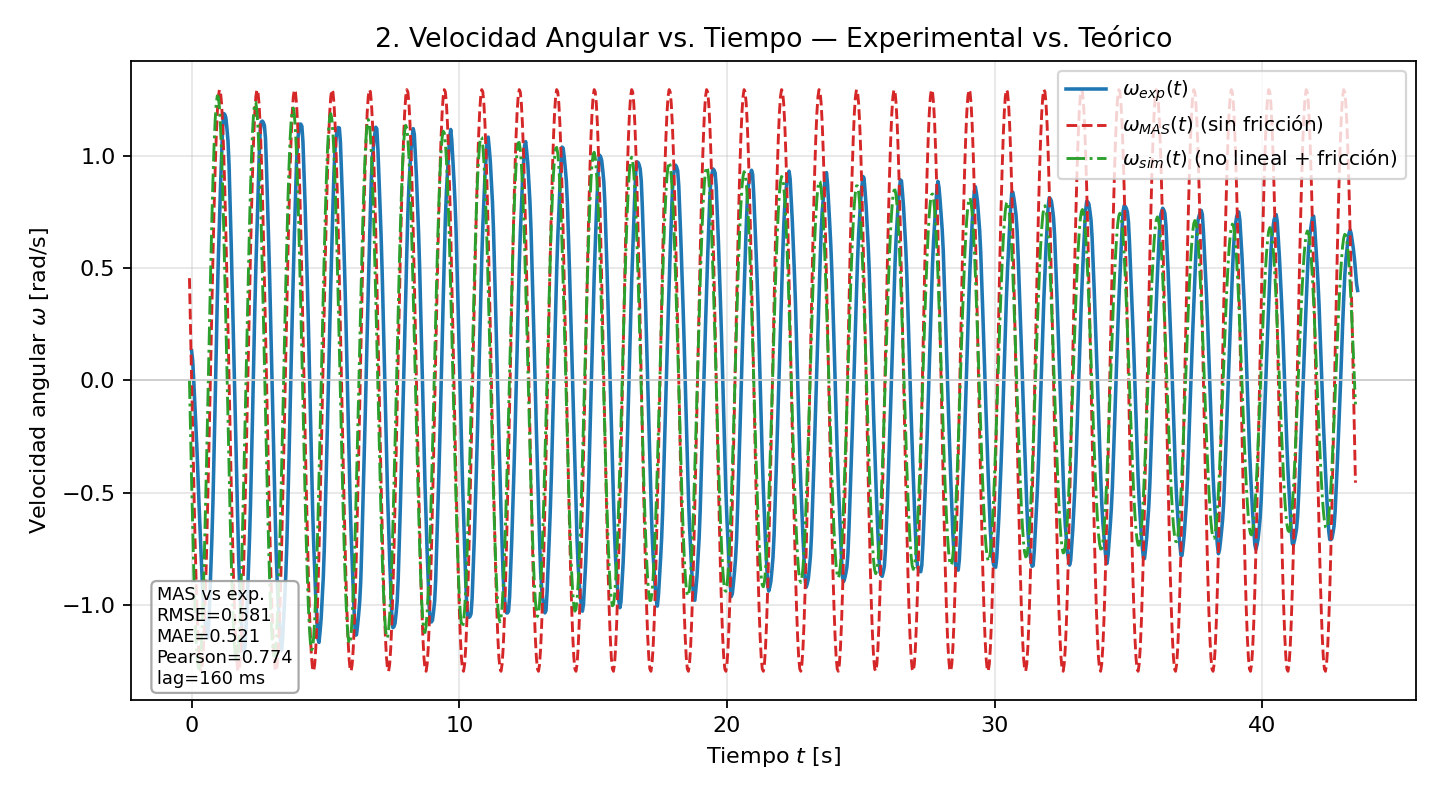
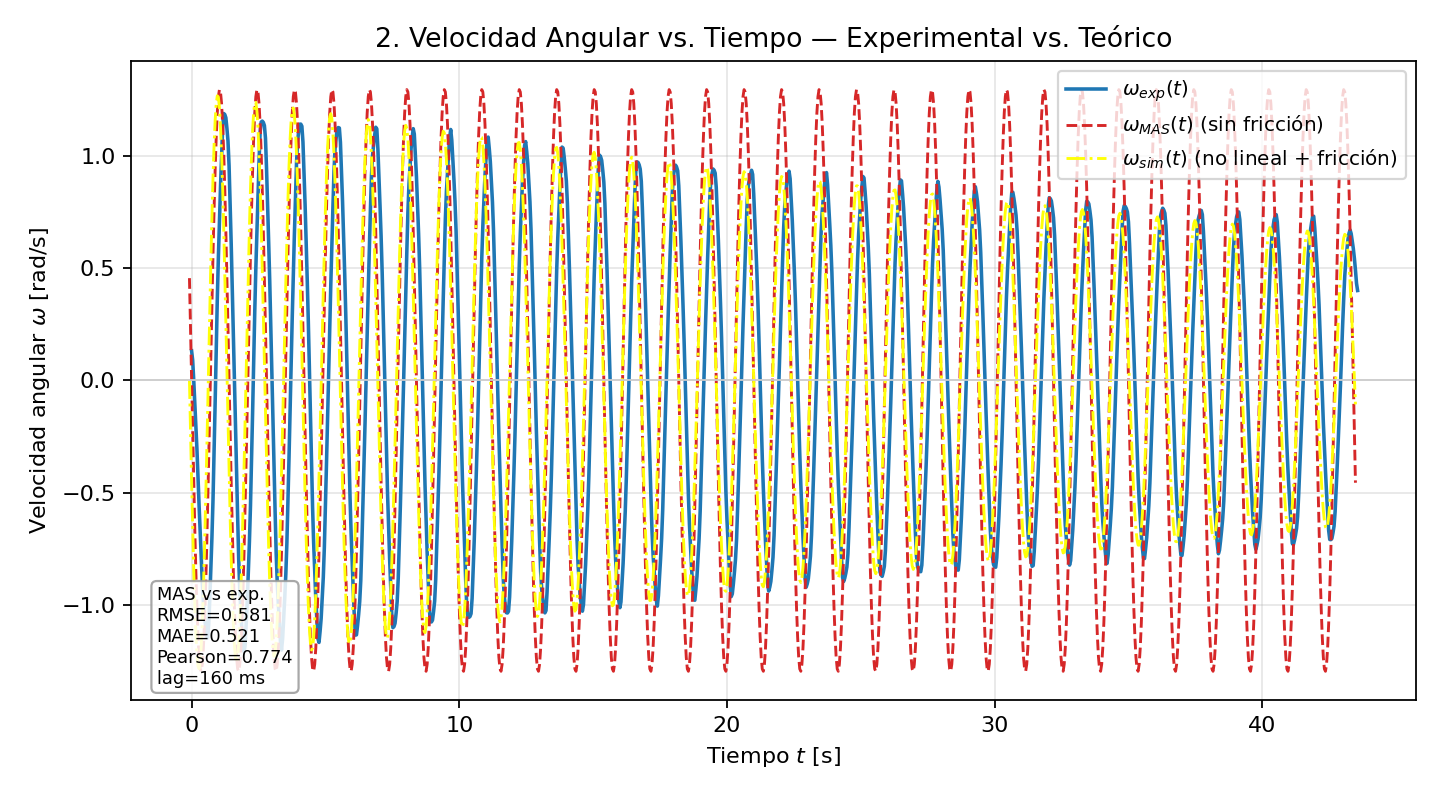
Graficas

Changed region(s): [[0.125, 0.125, 0.9375, 0.8125]]

diff --git a/src/graficas.py b/src/graficas.py
@@ -32,7 +32,7 @@ FIGS = ROOT / "figs"
 # Estilo consistente para las 4 figuras
 COLOR_EXP = "#1f77b4"       # azul - experimental
 COLOR_MAS = "#d62728"       # rojo - M.A.S. teorico (sin friccion)
-COLOR_SIM = "#2ca02c"       # verde - simulacion no lineal con friccion
+COLOR_SIM = "#ffff08"       # verde - simulacion no lineal con friccion
 
 
 def cargar_datos() -> tuple[pd.DataFrame, pd.DataFrame, pd.DataFrame]:
